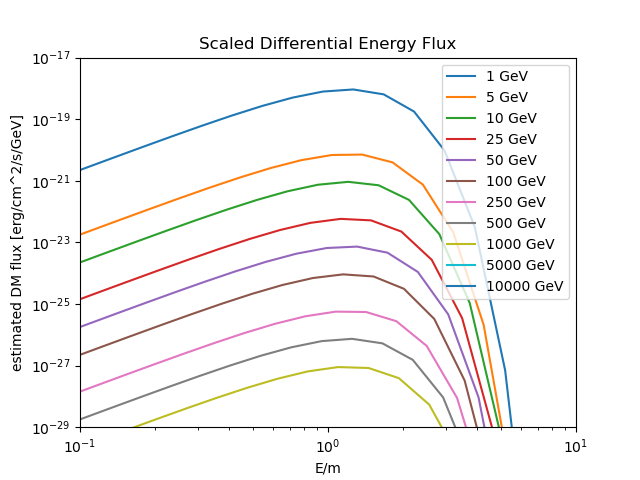
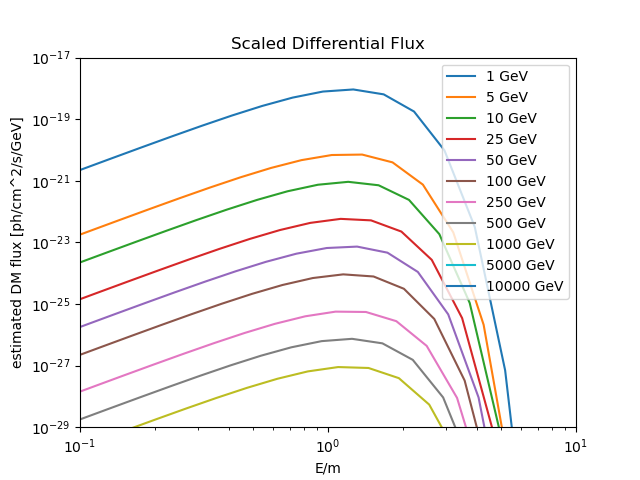
correct labels on spectrum plot

Changed region(s): [[0.3125, 0.0625, 0.7188, 0.125], [0.0, 0.2188, 0.0625, 0.7812]]

diff --git a/run/spectrum/spectrum.py b/run/spectrum/spectrum.py
@@ -63,9 +63,9 @@ def main():
 	plt.xlim([0.1,10])
 	plt.yscale('log')
 	plt.ylim([10e-30,10e-18])
-	plt.title("Scaled Differential Energy Flux")
+	plt.title("Scaled Differential Flux")
 	plt.xlabel("E/m")
-	plt.ylabel("estimated DM flux [erg/cm^2/s/GeV]")
+	plt.ylabel("estimated DM flux [ph/cm^2/s/GeV]")
 	#plt.show()
 	plt.savefig("ngc4649_spectrum_Em.png")
 	plt.clf()
